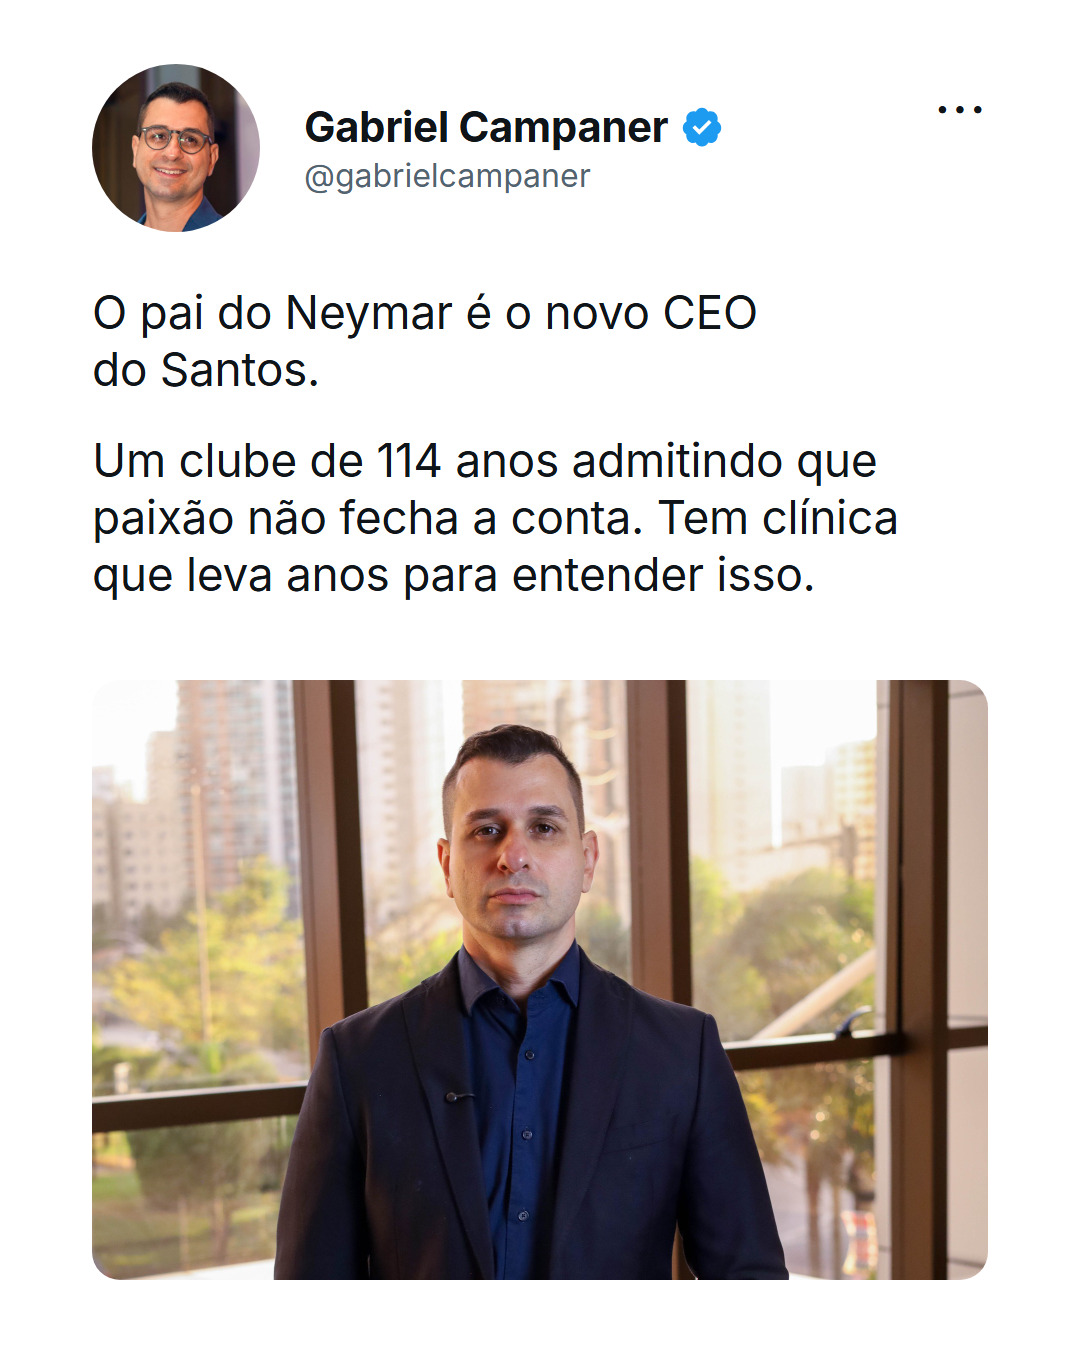
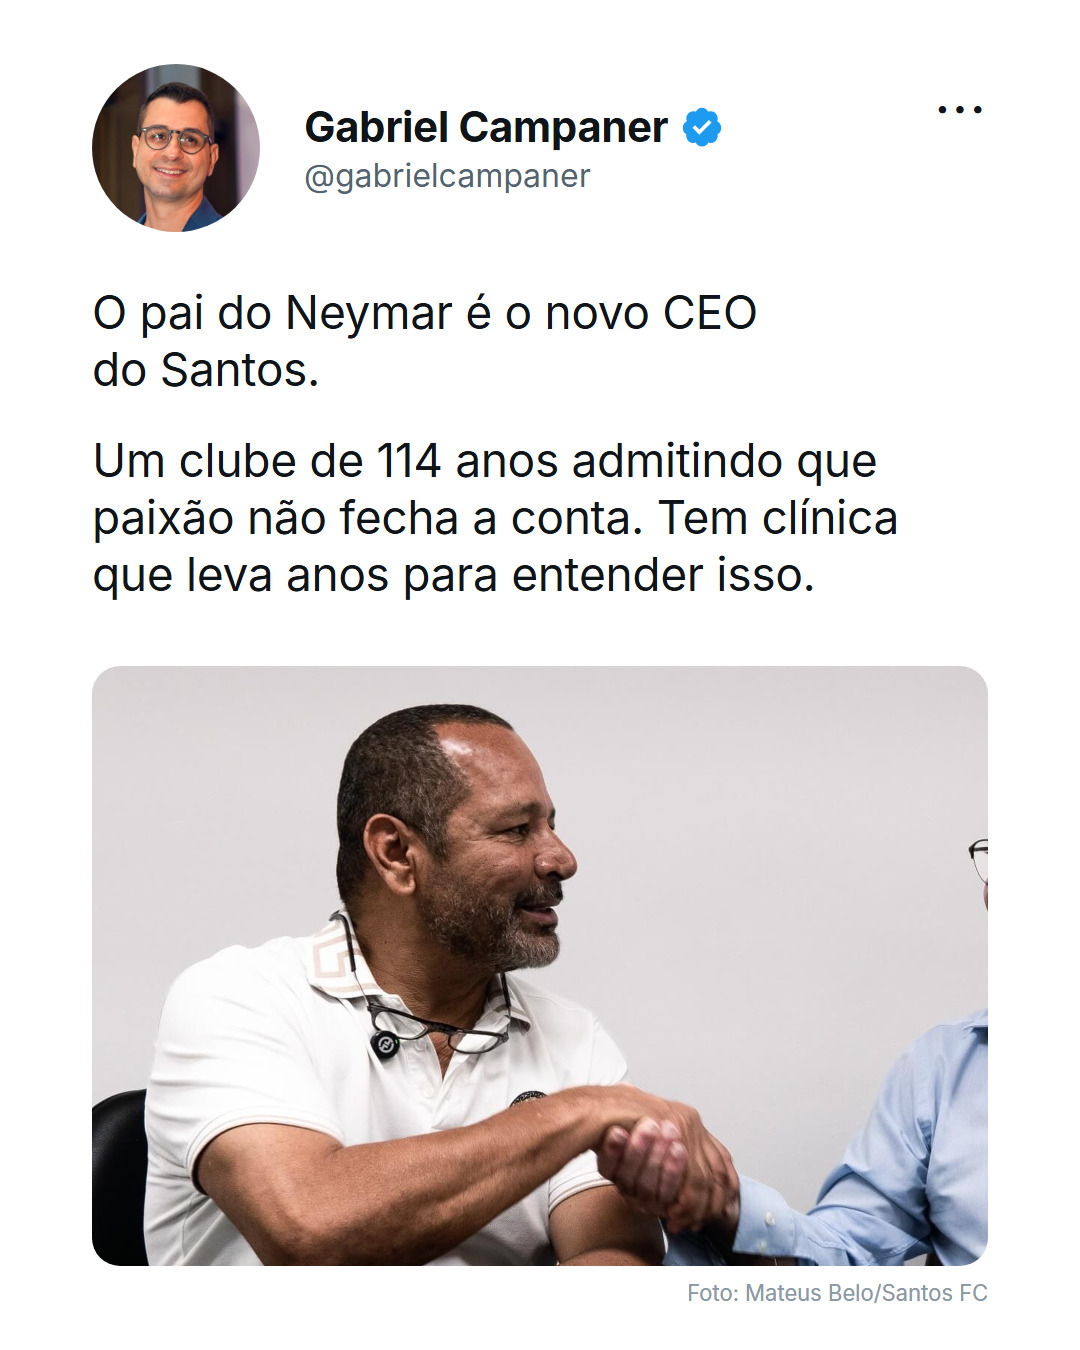
CR-02: 1ª lâmina com a foto oficial do pai do Neymar (Mateus Belo/Santos FC)

diff --git a/AGENDA.md b/AGENDA.md
@@ -1,6 +1,6 @@
 # Agenda do Instagram da GC
 
-Gerada em 09/11/2026, 11:26:03. 355 posts agendados, 3 pendentes. Stories com enquete e caixinha são feitos à mão, no dia do post.
+Gerada em 09/11/2026, 11:49:41. 355 posts agendados, 3 pendentes. Stories com enquete e caixinha são feitos à mão, no dia do post.
 
 
 ## terça, 20/10
